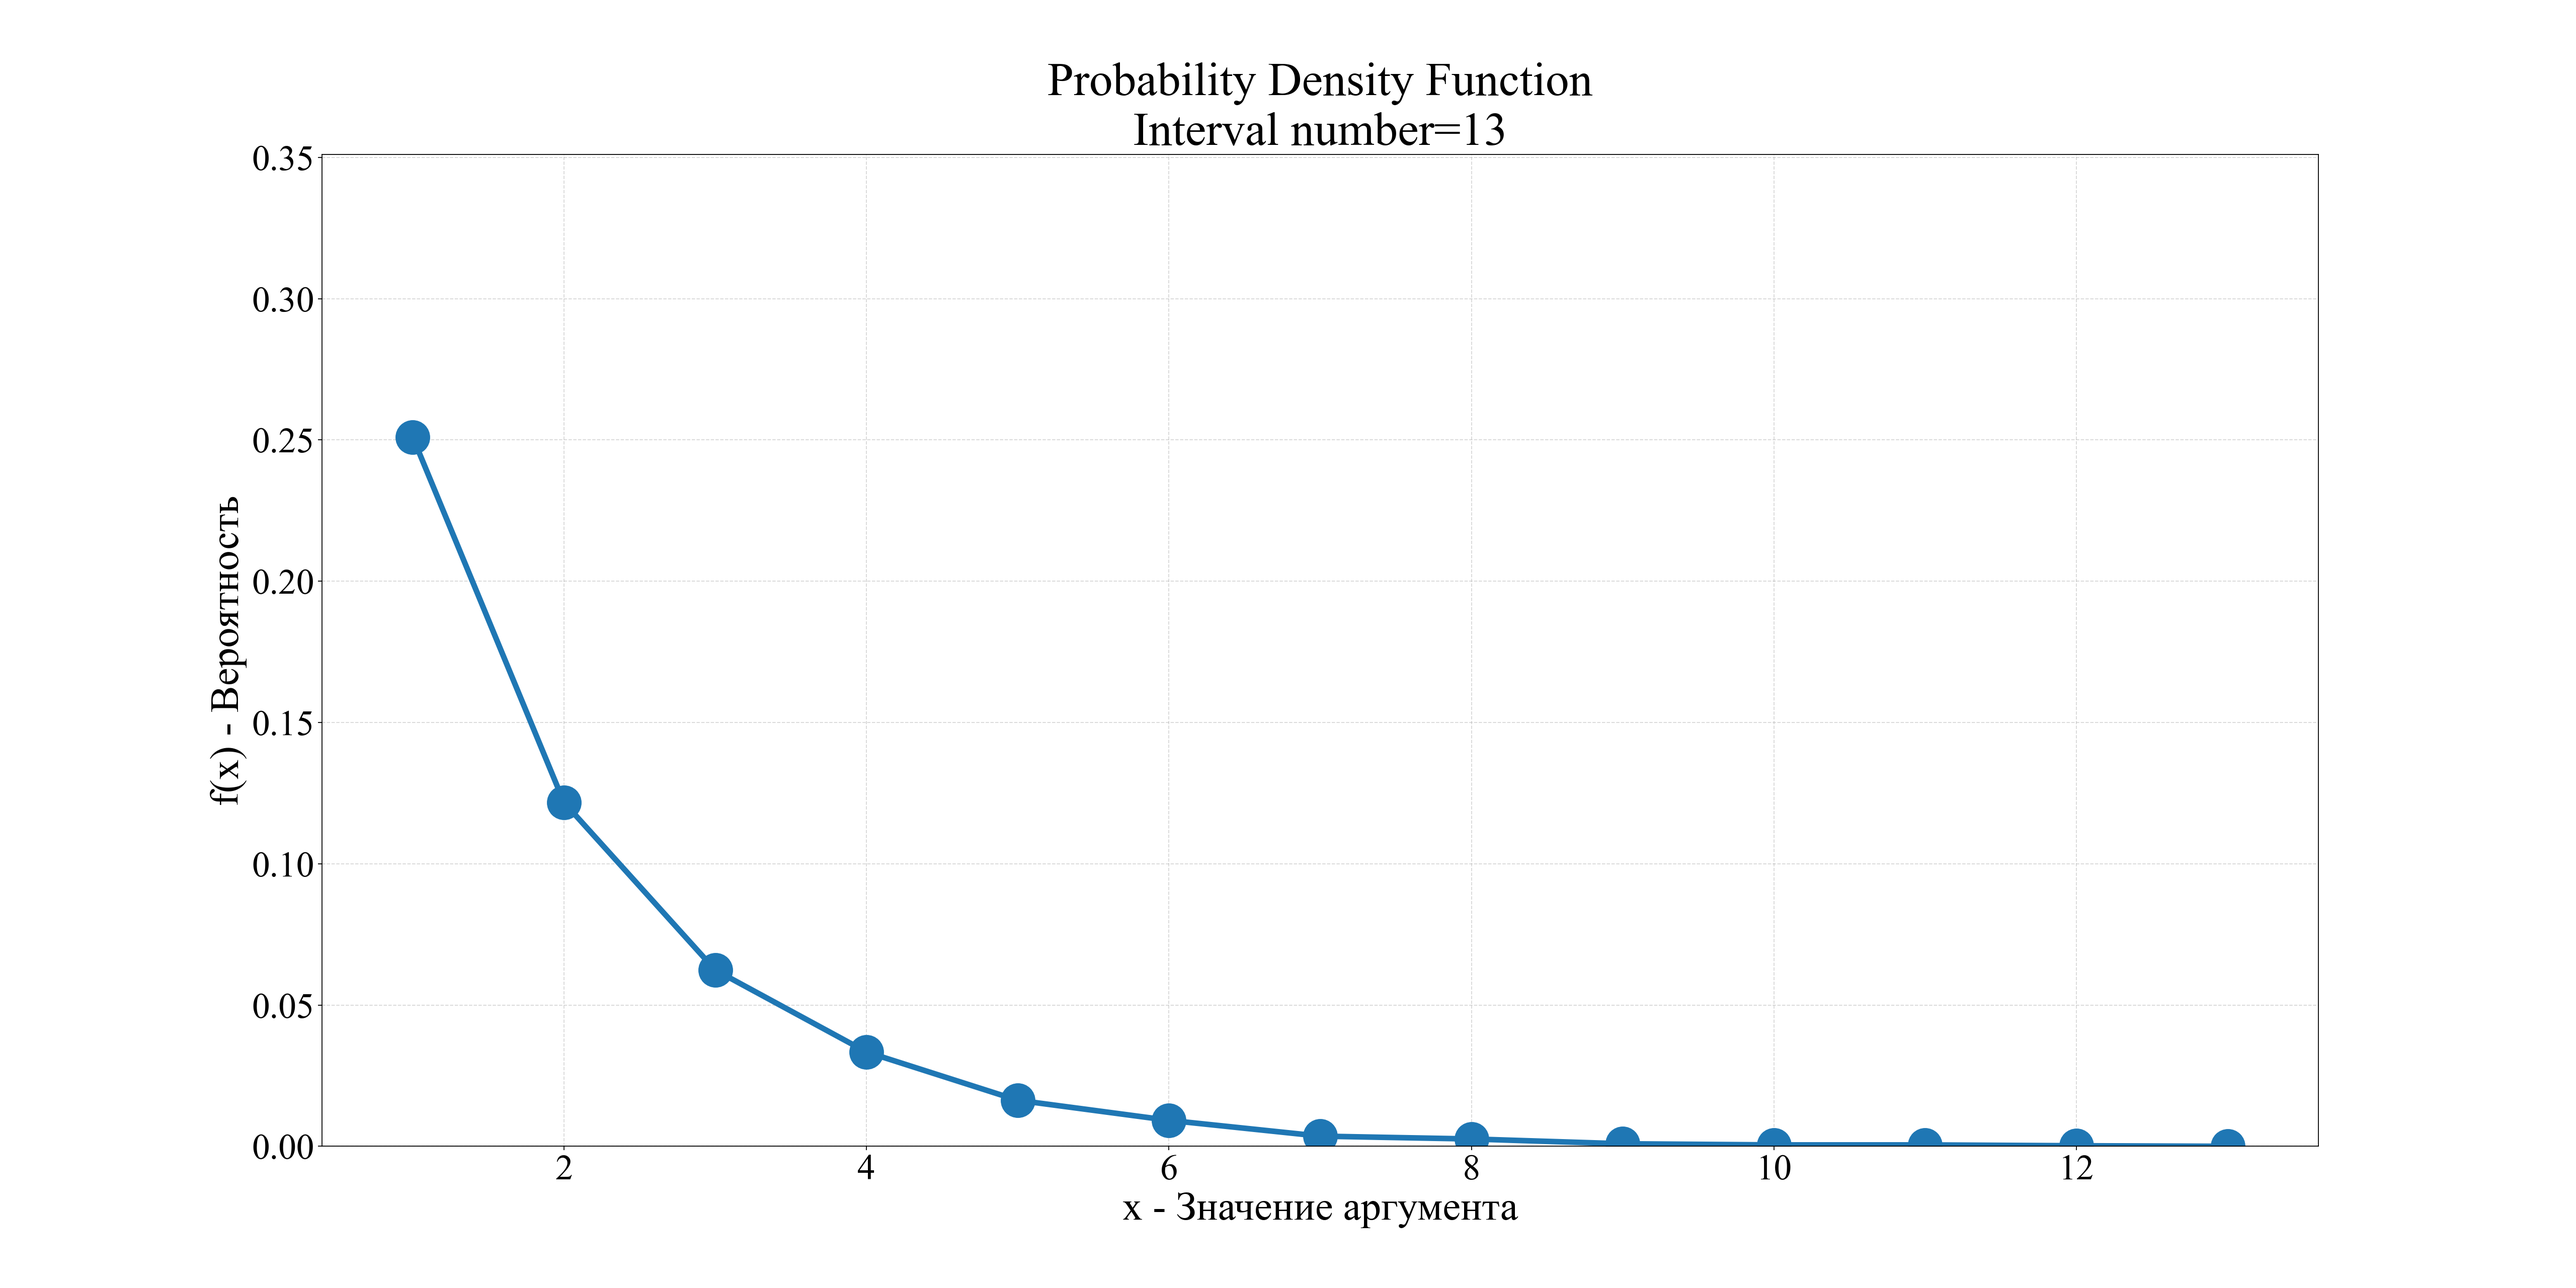
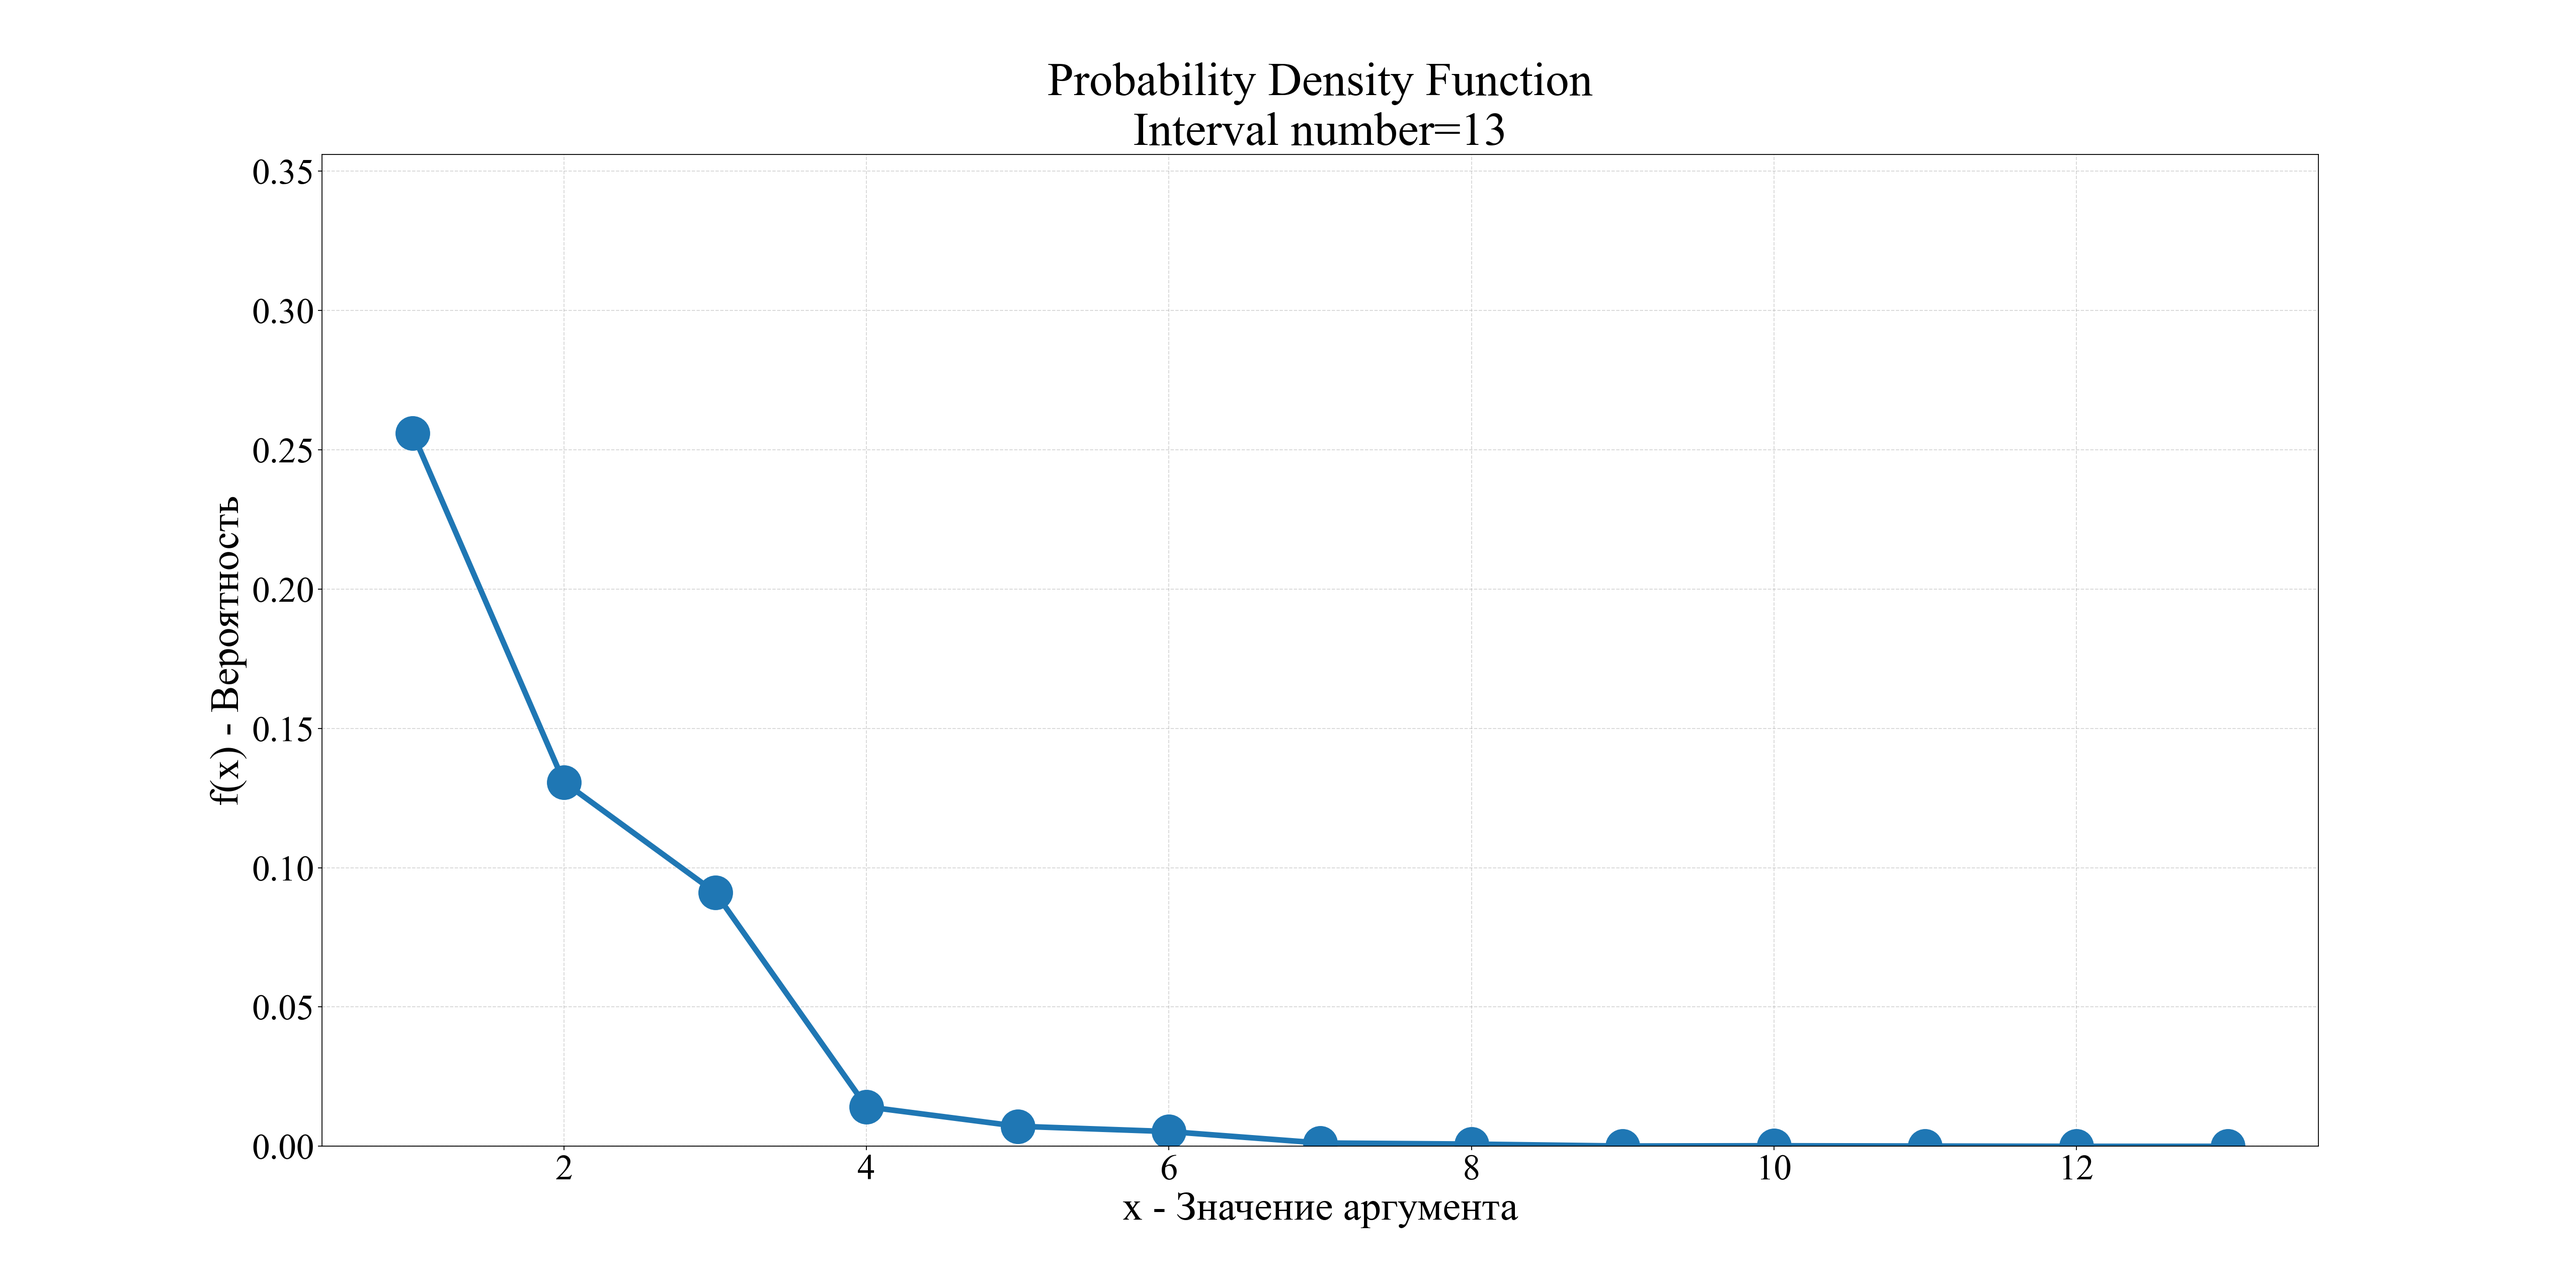
增加 几何分布算法 2

diff --git a/002 - lab2/main.py b/002 - lab2/main.py
@@ -129,17 +129,20 @@ def geometric_distribution(arr_geometric: np.ndarray, img_save_fold: str):
 
 if __name__ == '__main__':
     # 【2.1】РАВНОМЕРНОЕ РАСПРЕДЕЛЕНИЕ (дискретное)
-    uniform_distribution()
+    # uniform_distribution()
 
     # 【2.2】БИНОМИАЛЬНОЕ РАСПРЕДЕЛЕНИЕ
-    binomial_distribution()
+    # binomial_distribution()
 
     # 【2.3.1】ГЕОМЕТРИЧЕСКОЕ РАСПРЕДЕЛЕНИЕ (Алгоритм 1)
-    geometric_distribution(arr_geometric=irandom.irngeo_1(p=0.5, size=10000),
-                           img_save_fold='./result/【2.3.1】Geometric distribution/')
+    # geometric_distribution(arr_geometric=irandom.irngeo_1(p=0.5, size=10000),
+    #                        img_save_fold='./result/【2.3.1】Geometric distribution/')
 
     # 【2.3.2】ГЕОМЕТРИЧЕСКОЕ РАСПРЕДЕЛЕНИЕ (Алгоритм 2)
+    geometric_distribution(arr_geometric=irandom.irngeo_2(p=0.5, size=10000),
+                           img_save_fold='./result/【2.3.2】Geometric distribution/')
 
     # 【2.3.3】ГЕОМЕТРИЧЕСКОЕ РАСПРЕДЕЛЕНИЕ (Алгоритм 3)
-
+    geometric_distribution(arr_geometric=irandom.irngeo_3(p=0.5, size=10000),
+                           img_save_fold='./result/【2.3.3】Geometric distribution/')
     pass

diff --git a/002 - lab2/irandom.py b/002 - lab2/irandom.py
@@ -36,3 +36,28 @@ def irngeo_1(p: float, size: int) -> np.ndarray:
 
     return np.array(arr_irngeo)
 
+
+def irngeo_2(p: float, size: int) -> np.ndarray:
+    """
+    【2.3.2】几何分布，算法 2
+    :param p: [0, 1] 的 float 类型
+    :param size: 数组大小
+    :return: 具有几何分布的 numpy.ndarry
+    """
+    if p < 0 or p > 1 or size <= 0:
+        raise ValueError
+
+    arr_irngeo = []
+
+    for i in range(size):
+        i_uniform = np.random.uniform(low=0, high=1)
+        j = 0
+
+        while i_uniform > p:
+            i_uniform = np.random.uniform(low=0, high=1)
+            j += 1
+
+        arr_irngeo.append(j)
+
+    return np.array(arr_irngeo)
+
